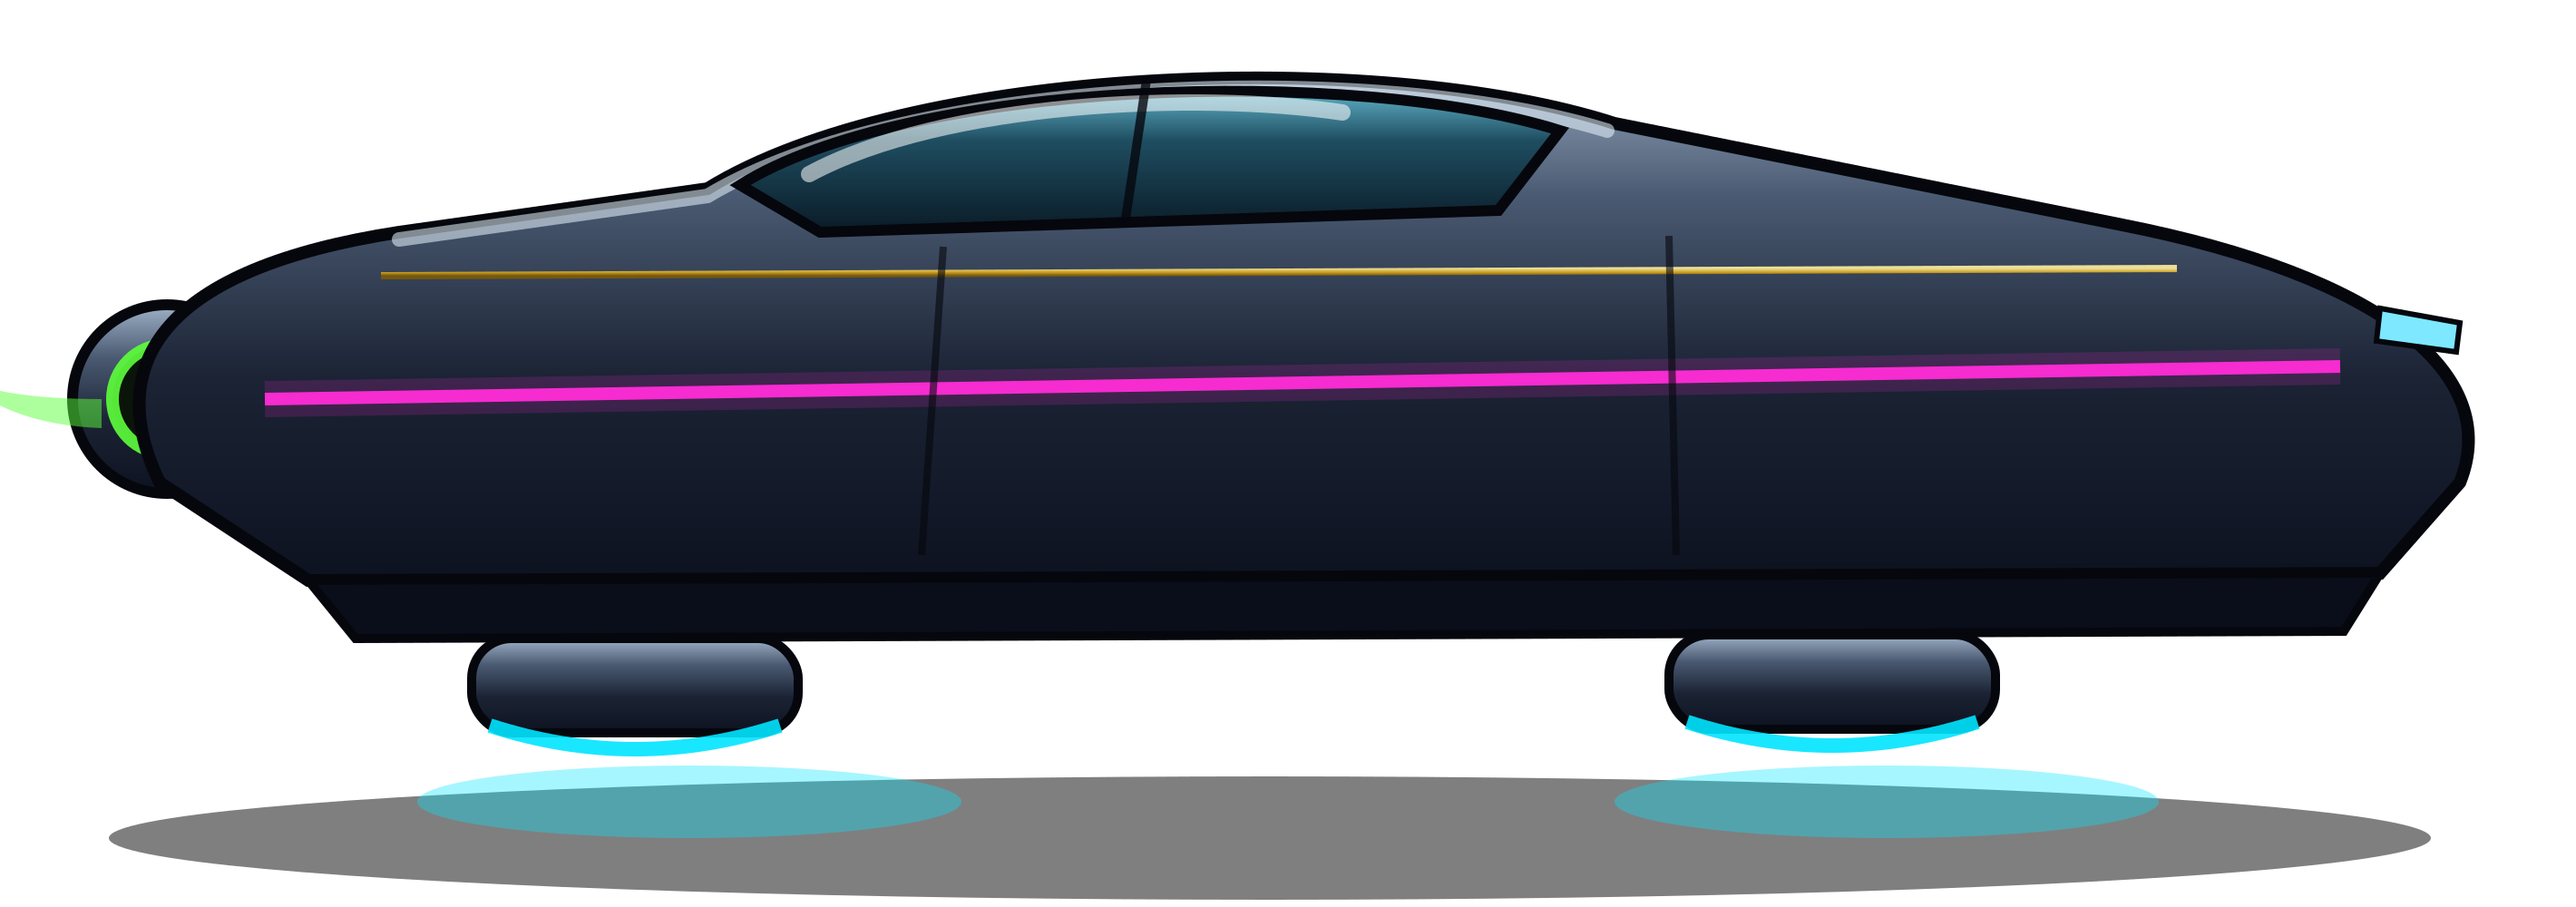
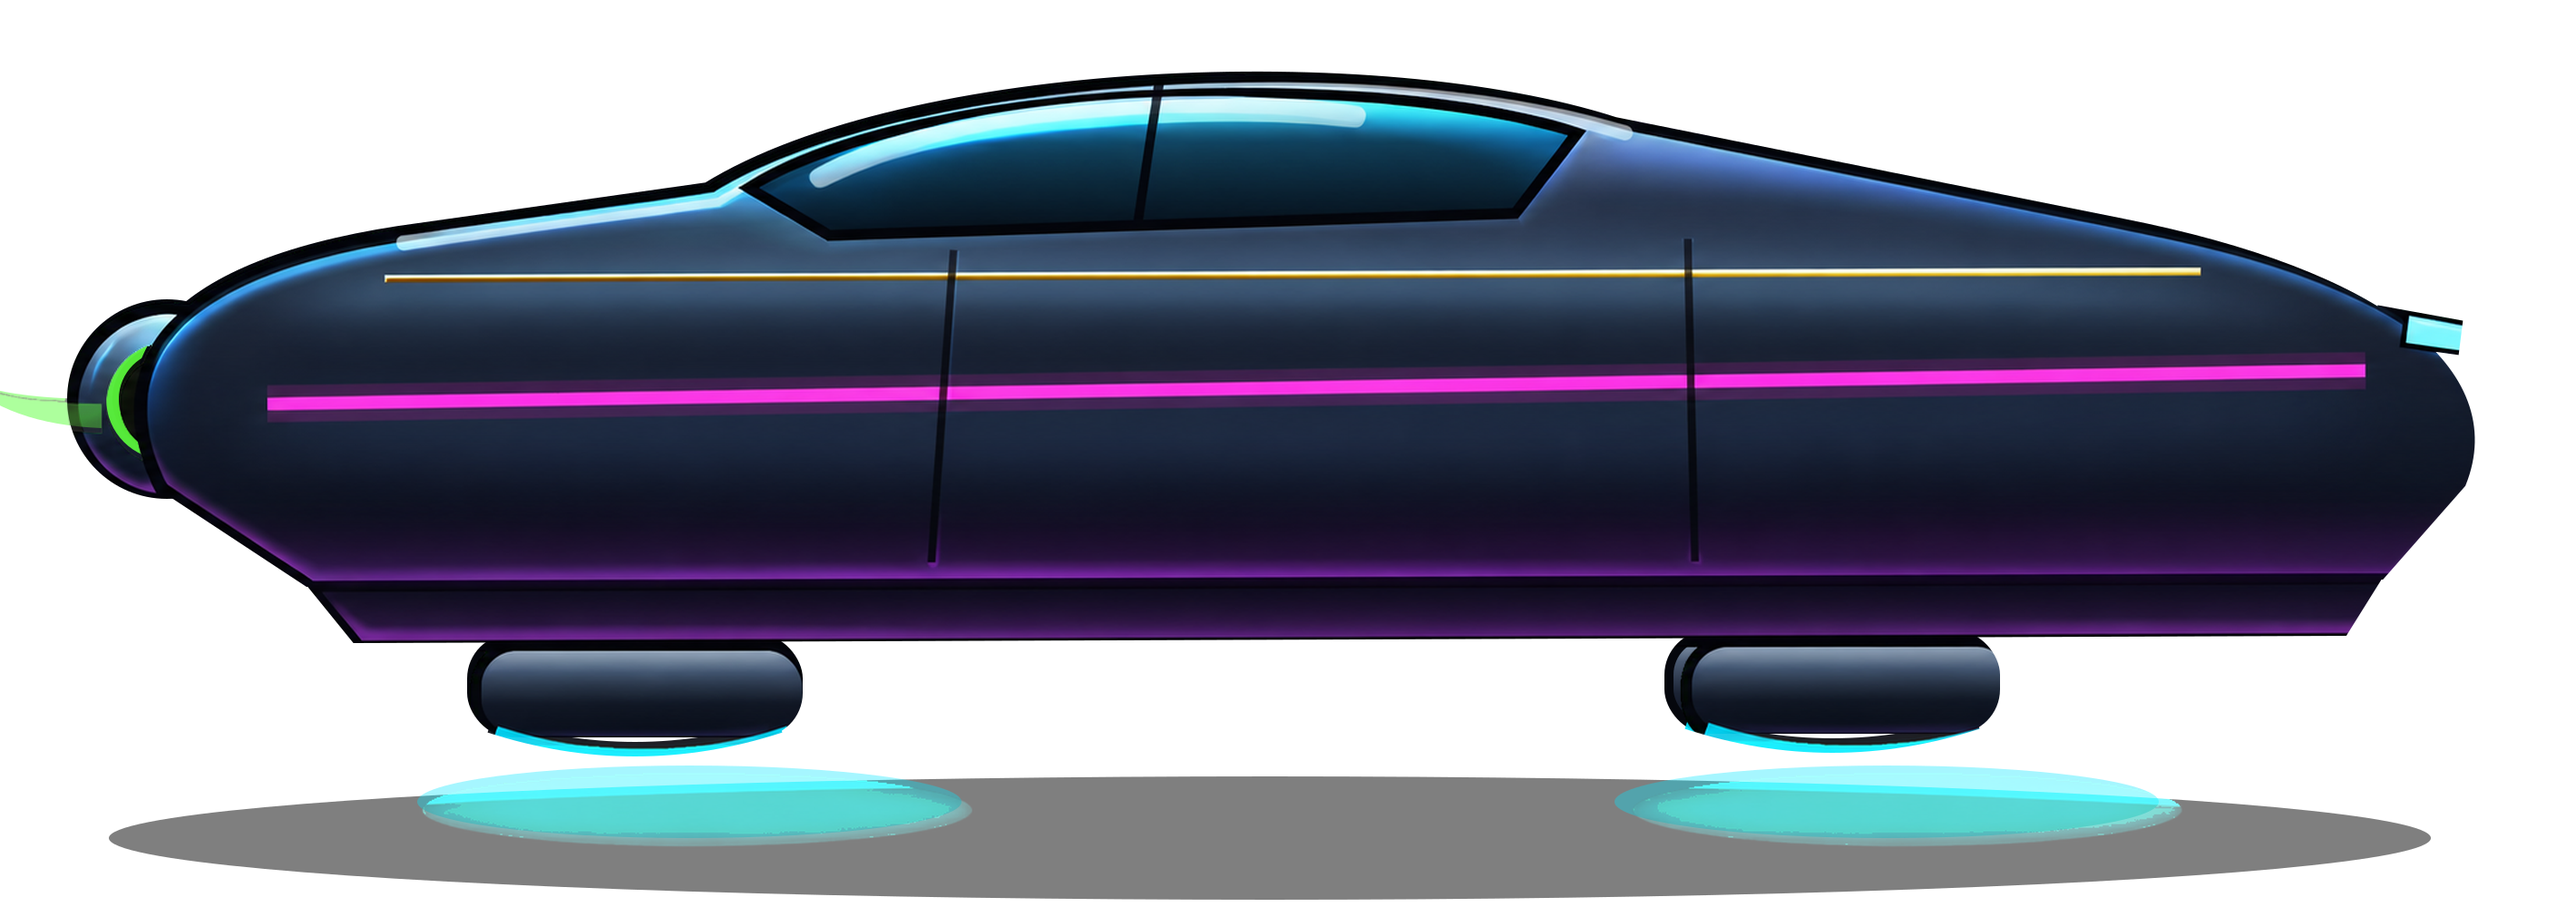
art: adopt the enhanced character and car; amend the assets convention per owner ruling
OWNER RULING, 2026-07-25. The prohibition on externally sourced art is amended,
not waived, and the distinction is written into CLAUDE.md so it can be applied
again: external ENHANCEMENT of art we already own is permitted; externally
DESIGNED art is not, and symbols are never externally designed.

The original rule was aimed at a specific failure after Manus - externally
designed assets, symbols above all, that did not fit the animation pipeline and
had to be redone. That reason still holds for that case. It does not describe
what happened here: the same artwork, the same silhouette, given the volumetric
shading, rim light and specular that flat vector masters could not carry.

Verified before adoption rather than asserted:
  character  680x1344 RGBA, subject bbox matches the original to 0.7%
  car        2840x1000 RGBA, subject bbox IDENTICAL at 2729x914, 40.7%
             transparent in both

MOTION AND OVERLAYS, the owner's question, answered by measurement. Every
effect is CSS on the LAYER, not baked into the sprite: hover bob, character
sway and breathe, underglow pulse, neon travel, booster flicker, antenna blink,
visor glint. Swapping the image cannot affect any of it. Confirmed live with the
new art - .char-layer's transform animates translateY -6.95 to -0.10 with a
scale breathe of 1.0148 to 1.0002 and a slight rotational sway.

The real risk was alignment, not motion. .antenna-light and .visor-glint are
[…]

Changed region(s): [[0.0, 0.062, 0.9606, 0.589], [0.093, 0.558, 0.9606, 0.93], [0.1549, 0.775, 0.3718, 0.93]]

diff --git a/CLAUDE.md b/CLAUDE.md
@@ -162,7 +162,45 @@ jackpot, gamble, or continuation.
 
 Manus is retired. All visual and audio assets are produced in-house from vector masters
 (SVG) via the asset pipeline: deterministic, exact-size rendering, front-facing symbols
-carry no baked-in text. Do not reintroduce Manus briefs or externally sourced art.
+carry no baked-in text. Do not reintroduce Manus briefs.
+
+**AMENDED 2026-07-25 by owner ruling: external ENHANCEMENT of existing art is permitted.
+Externally DESIGNED art is not.**
+
+The original prohibition was written after Manus, and it was aimed at a specific failure:
+externally designed assets, symbols above all, that did not fit the animation pipeline and
+had to be redone. That reason still holds and the rule still holds for that case.
+
+It does not cover what happened here. The scene character and car were **enhanced, not
+redesigned**: the same artwork, the same silhouette, given the volumetric shading, rim
+light and specular that flat vector masters could not carry. Verified rather than asserted
+before adoption:
+
+- `scene_character.png` 680x1344 RGBA, subject bounding box matching the original to
+  **0.7%**;
+- `scene_car.png` 2840x1000 RGBA, subject bounding box **identical** at 2729x914, 40.7%
+  transparent in both.
+
+The owner's reasoning, recorded because it is the test to apply next time: *"we're only
+subbing out and subbing in pretty much the same images... this enhanced is actually great
+because this is taking us where we need to get to. It's actually solved a massive
+problem."*
+
+**The test for any future external asset**, in order:
+
+1. **Is it an enhancement of art we already own, or a new design?** Enhancement is
+   permitted; new external design is not, and symbols are never externally designed.
+2. **Does the silhouette match?** Measure the subject bounding box against the asset it
+   replaces. A changed silhouette is a redesign wearing an enhancement's clothes, and it
+   breaks layout: overlay effects are positioned by percentage within their layer.
+3. **Does it preserve the alpha channel and every effect anchor?** The car's own green
+   nose booster glow is 0.08% of its opaque pixels; a naive green-screen key would have
+   punched holes in it. Check before converting, not after.
+4. **Record the provenance** in the tracker row and the commit.
+
+The SVG masters remain the source for anything generated fresh, and remain committed. An
+enhanced raster that supersedes its master is recorded as such rather than silently
+diverging from it.
 
 ## Theme selector
 
